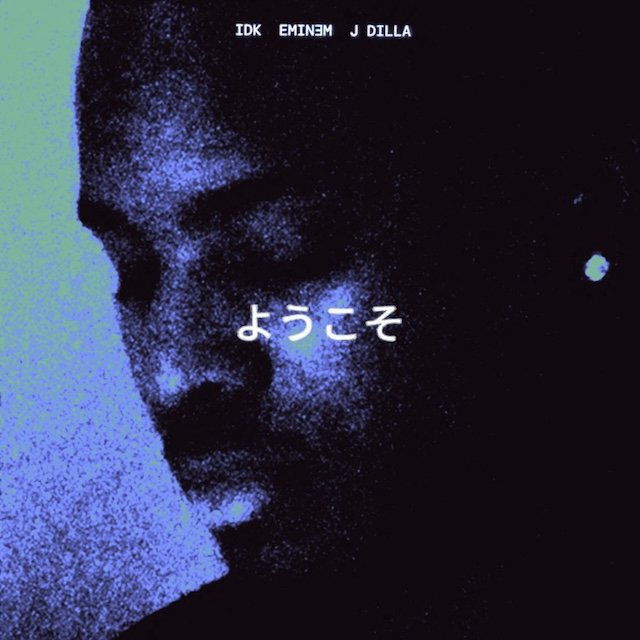
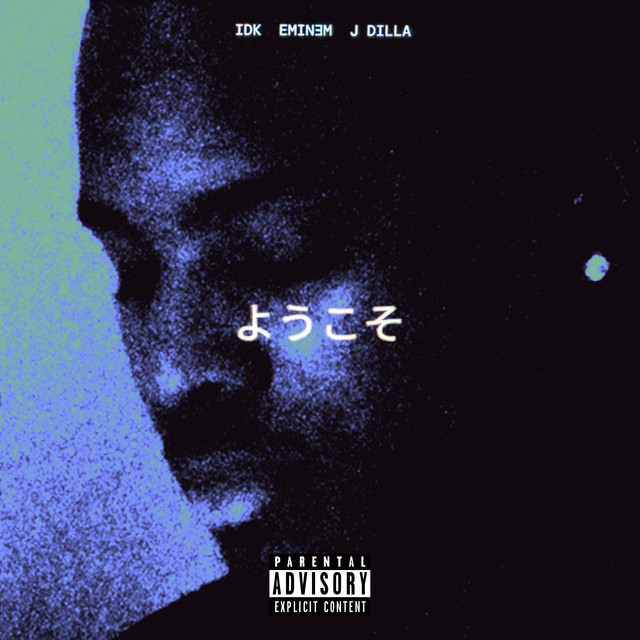
welcome cover

diff --git a/songs/feat/welcome.html b/songs/feat/welcome.html
@@ -6,7 +6,7 @@
 <title>WELCOME | EMDb</title>
   <meta property="og:title" content="WELCOME – EMDb">
   <meta property="og:description" content="Every Eminem release — explore, rate, review.">
-  <meta property="og:image" content="https://emdb.pro/images/album-covers/feat/idk-welcome-to-the-party-cover.jpg">
+  <meta property="og:image" content="https://emdb.pro/images/album-covers/feat/idk-welcome-to-the-party-cover-2.jpeg">
   <meta property="og:url" content="https://emdb.pro/songs/feat/welcome-to-the-party.html">
   <meta property="og:type" content="music.song">
   <meta property="og:site_name" content="EMDb">
@@ -15,7 +15,7 @@
   <meta name="twitter:card" content="summary_large_image">
   <meta name="twitter:title" content="WELCOME – EMDb">
   <meta name="twitter:description" content="Details, credits, and ratings for “WELCOME”.">
-  <meta name="twitter:image" content="https://emdb.pro/images/album-covers/feat/idk-welcome-to-the-party-cover.jpg">
+  <meta name="twitter:image" content="https://emdb.pro/images/album-covers/feat/idk-welcome-to-the-party-cover-2.jpeg">
 <link rel="stylesheet" href="/style.css">
 <script src="https://cdn.jsdelivr.net/npm/@supabase/supabase-js@2.45.2/dist/umd/supabase.min.js"></script>
 
@@ -841,7 +841,7 @@ body {
     </div>
     <div class="media-col">
       <div class="album-single" id="songCover">
-        <img src="/images/album-covers/feat/idk-welcome-to-the-party-cover.jpg" alt="WELCOME cover">
+        <img src="/images/album-covers/feat/idk-welcome-to-the-party-cover-2.jpeg" alt="WELCOME cover">
       </div>
       <button class="play-btn" id="playBtn" aria-expanded="false" aria-controls="songVideo">▶ Play</button>
       <div class="song-video" id="songVideo" data-video="NOLwRBzgXrg" aria-hidden="true"></div>
@@ -998,6 +998,7 @@ body {
   // Album cover rotator for song header (click to cycle covers)
   (function setupSongCoverRotator(){
     const albumUrls = [
+      '/images/album-covers/feat/idk-welcome-to-the-party-cover-2.jpeg',
       '/images/album-covers/feat/idk-welcome-to-the-party-cover.jpg'
     ];
     let currentIndex = 0;
